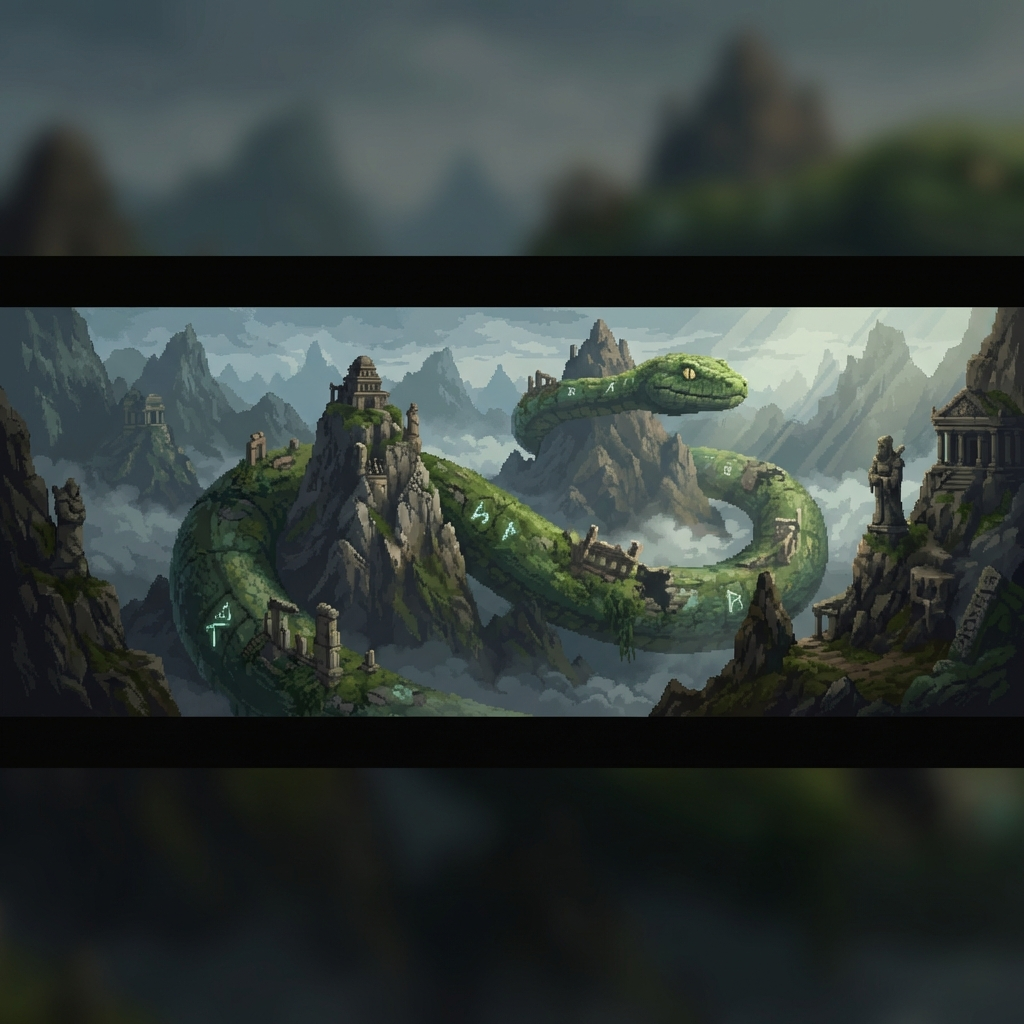
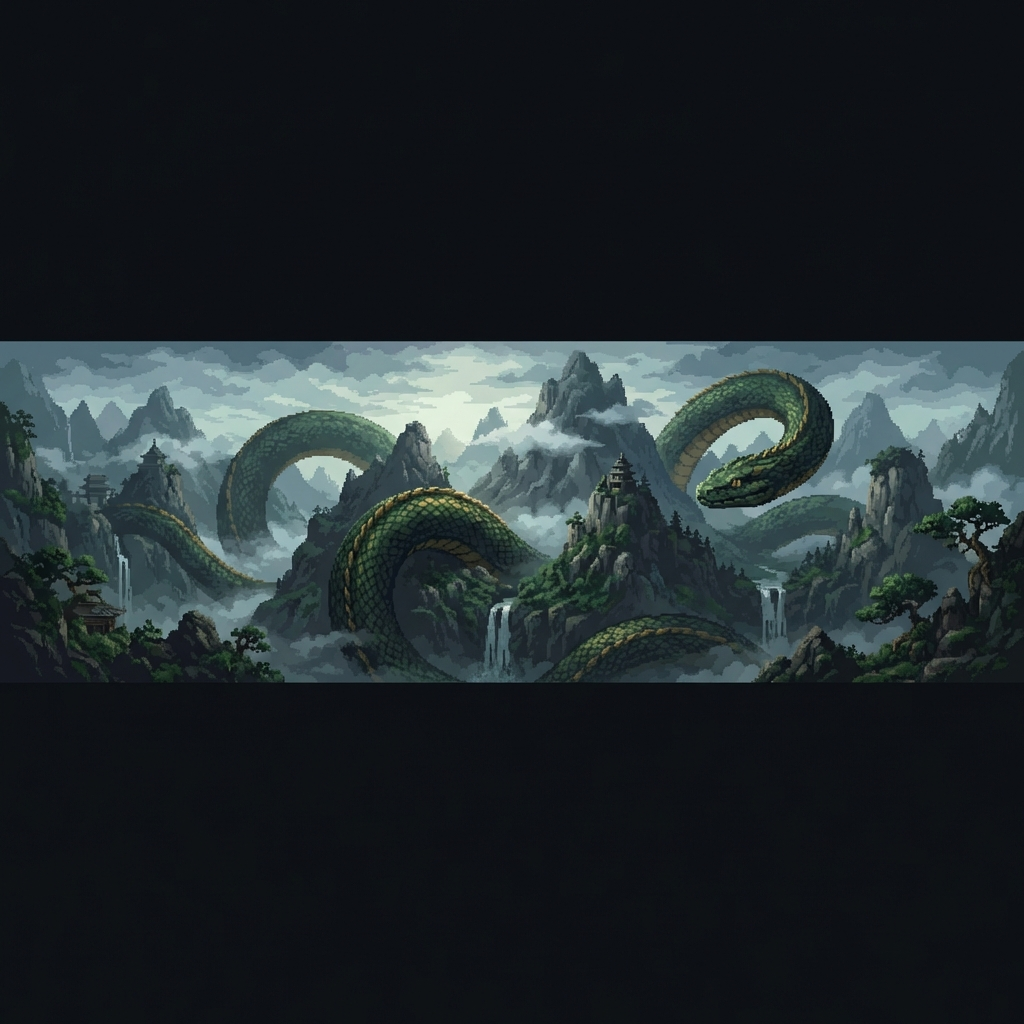
generated and integrated new, ultra-wide (panoramic) pixel art for all curriculum headers

diff --git a/frontend/src/pages/Dashboard.tsx b/frontend/src/pages/Dashboard.tsx
@@ -46,7 +46,7 @@ export const Dashboard: React.FC = () => {
                             <img
                                 src={`${import.meta.env.BASE_URL}assets/headers/${course.slug === 'sql-fundamentals' ? 'sql_landscape.png' :
                                     course.slug === 'r-fundamentals' ? 'r_landscape.png' : 'python_landscape.png'
-                                    }?v=5`}
+                                    }?v=6`}
                                 alt={course.title}
                                 className="w-full h-full object-cover pixel-art transition-transform duration-500 group-hover:scale-110"
                             />

diff --git a/frontend/src/pages/Course.tsx b/frontend/src/pages/Course.tsx
@@ -69,7 +69,7 @@ export const Course: React.FC = () => {
                 style={{
                     backgroundImage: `url(${import.meta.env.BASE_URL}assets/headers/${slug === 'sql-fundamentals' ? 'sql_landscape.png' :
                         slug === 'r-fundamentals' ? 'r_landscape.png' : 'python_landscape.png'
-                        }?v=5)`,
+                        }?v=6)`,
                     backgroundSize: 'cover',
                     backgroundPosition: 'center'
                 }}
